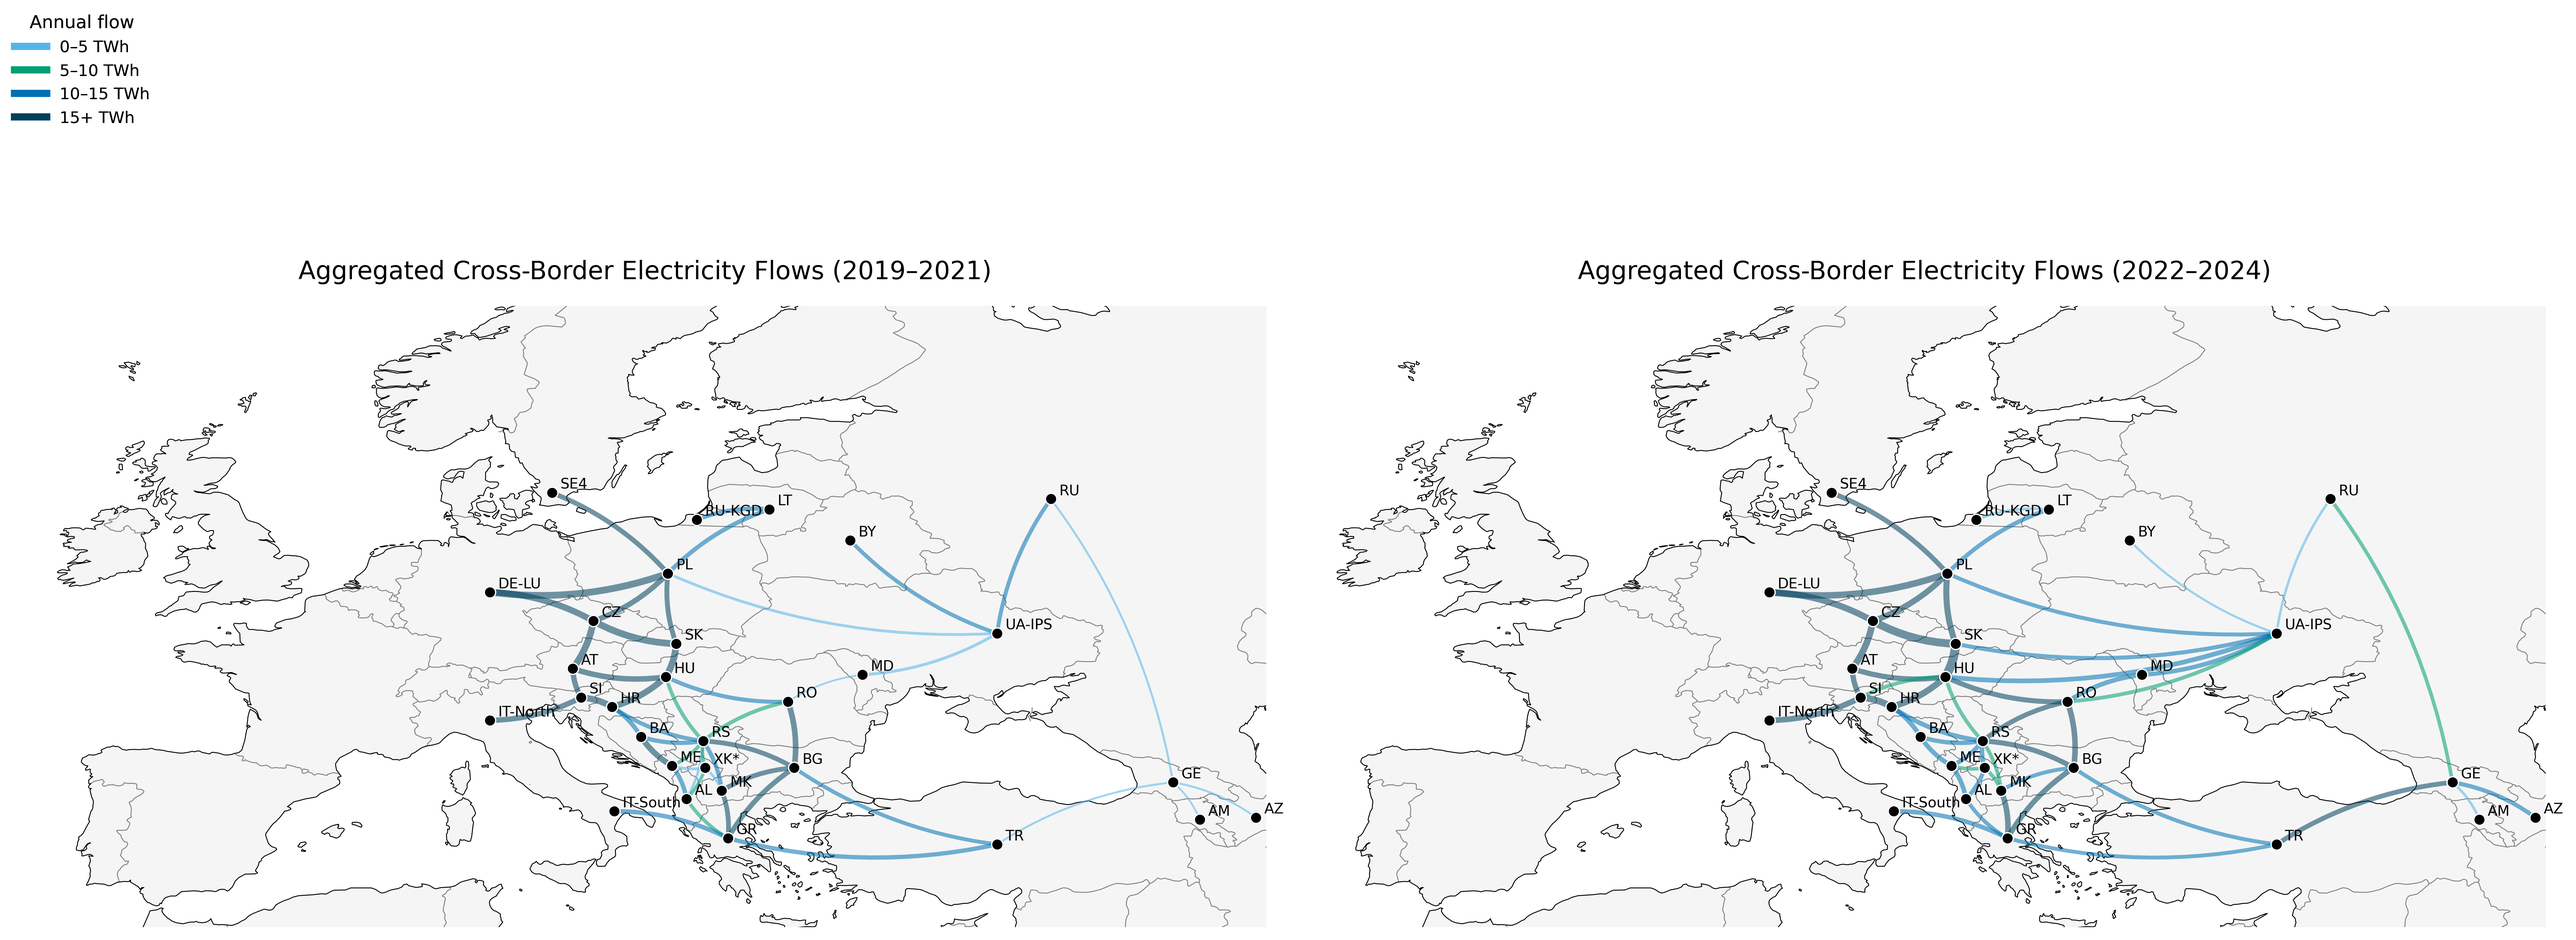
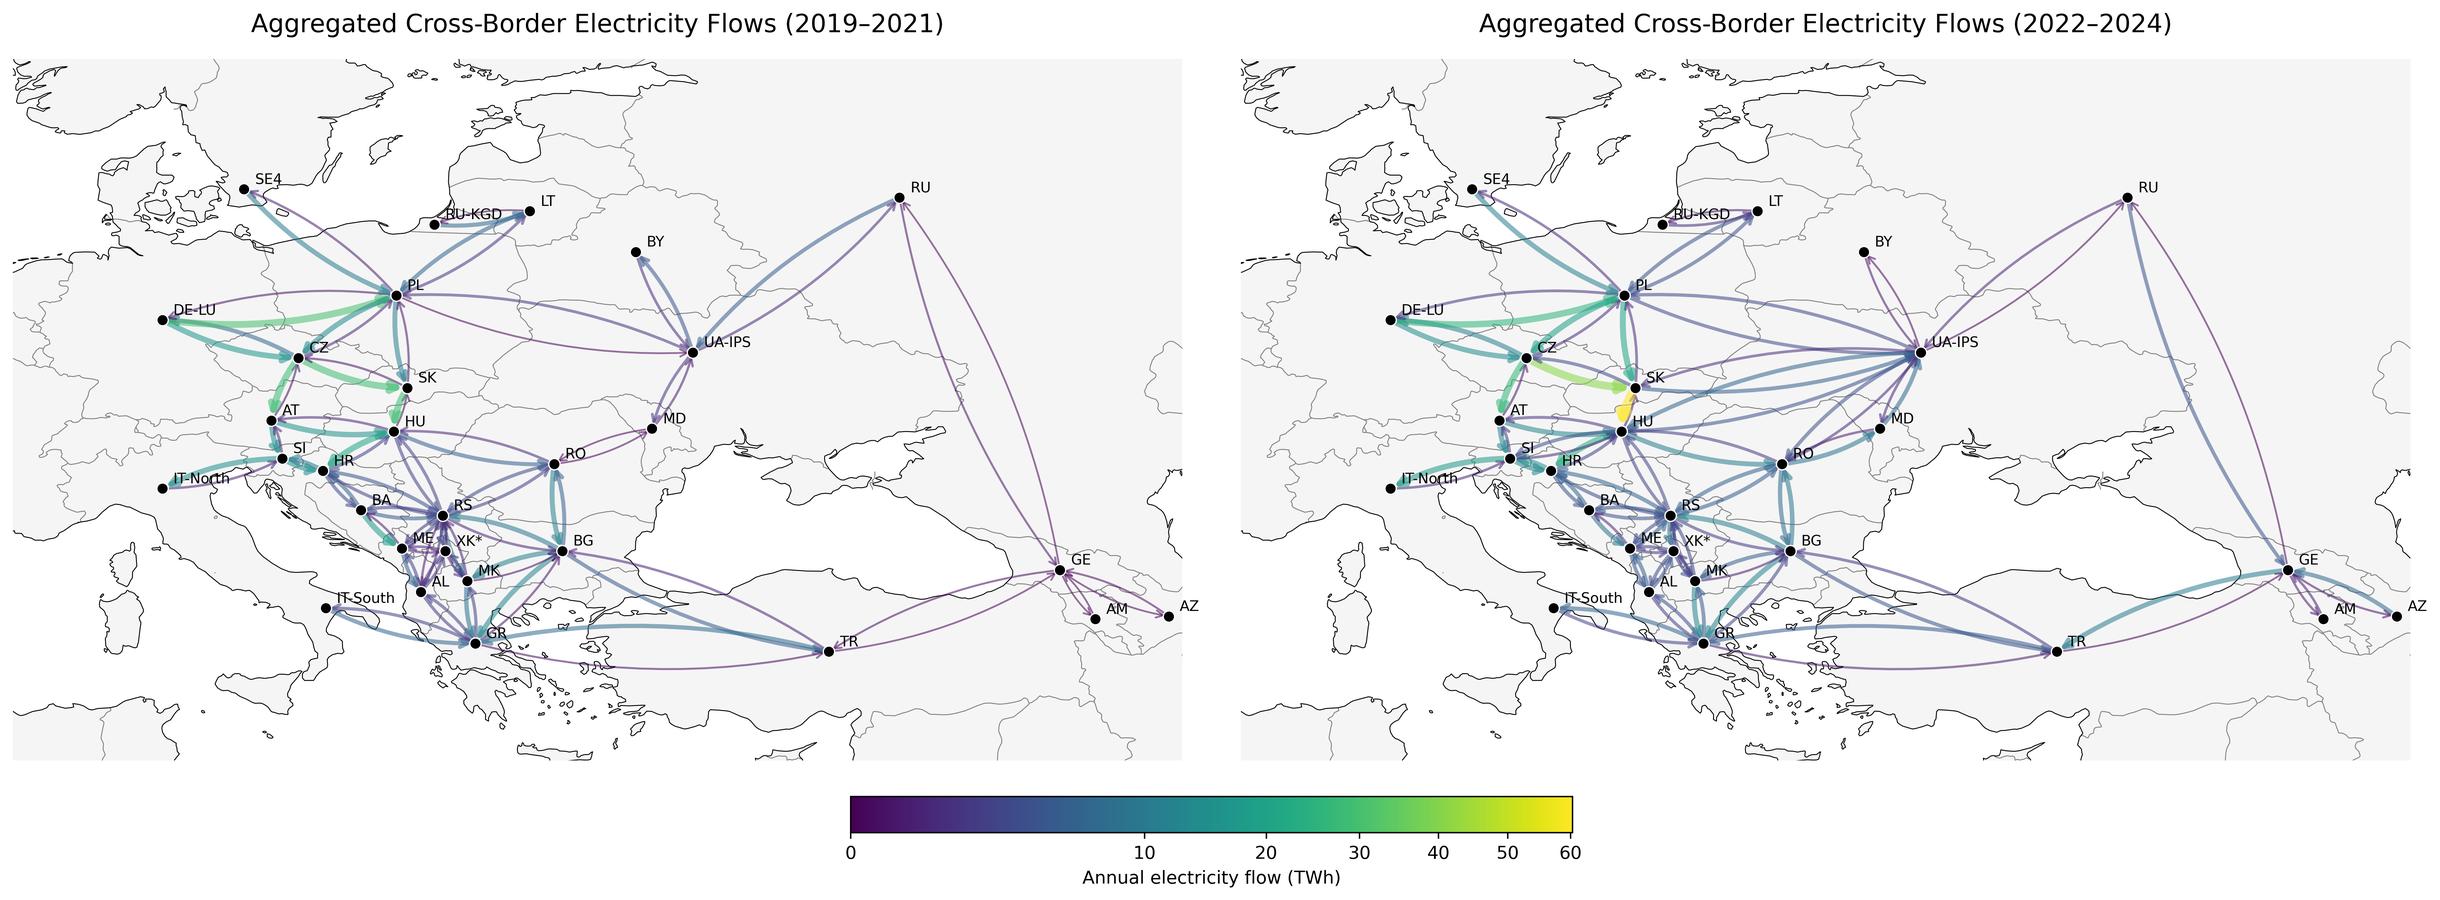
change main_figure.py

diff --git a/src_code/main_figure.py b/src_code/main_figure.py
@@ -1,5 +1,4 @@
 import numpy as np
-import pandas as pd
 import matplotlib.pyplot as plt
 
 import os
@@ -7,22 +6,19 @@ import os
 import cartopy.crs as ccrs
 import cartopy.feature as cfeature
 
-from matplotlib.lines import Line2D
 from matplotlib.patches import FancyArrowPatch
 
+import matplotlib.cm as cm
+import matplotlib.colors as mcolors
+
 from result_path import OUTPUT_PATH
-
-
-# =========================================================
-# CONFIG
-# =========================================================
 
 MIN_FLOW = 5
 TOP_N = 35
 FIGSIZE = (20, 10)
 
-MAP_XLIM = (-12, 48)
-MAP_YLIM = (35, 62)
+MAP_XLIM = (5, 48)
+MAP_YLIM = (35, 59)
 
 EDGE_ALPHA = 0.55
 EDGE_RAD = 0.12
@@ -32,10 +28,6 @@ NODE_FONT = 8
 
 BASEMAP_COLOR = "#f5f5f5"
 BASEMAP_EDGE = "gray"
-
-# =========================================================
-# NODE COORDINATES
-# =========================================================
 
 COORDS = {
     "DE-LU": (10.5, 51.2),
@@ -58,7 +50,7 @@ COORDS = {
     "IT-South": (16.5, 40.6),
     #"IT-CSouth": (14.3, 42.0),
     #"UA": (25.0, 49.0),
-    "UA-IPS": (35.0, 49.2),
+    "UA-IPS": (30.0, 50.0),
     "LT": (24.0, 55.2),
     "SE4": (13.5, 56.0),
     "TR": (35.0, 39.0),
@@ -72,11 +64,6 @@ COORDS = {
     "BY": (27.9, 53.7)
 }
 
-
-# =========================================================
-# DATA PIPELINE
-# =========================================================
-
 def aggregate_period(df, start_year, end_year):
     period = df[(df["year"] >= start_year) & (df["year"] <= end_year)]
 
@@ -88,11 +75,6 @@ def aggregate_period(df, start_year, end_year):
 
 
 def make_undirected(df):
-    """
-    Merge bidirectional flows into a single undirected edge.
-    Ensures (A,B) == (B,A).
-    """
-
     df = df.copy()
 
     # canonical ordering
@@ -115,22 +97,12 @@ def filter_network(df, min_flow=MIN_FLOW, top_n=TOP_N):
     df = df[df["flow_twh"] >= min_flow]
     return df.nlargest(top_n, "flow_twh")
 
-
-# =========================================================
-# MAP SETUP (CARTOPY)
-# =========================================================
-
 def setup_axis(ax):
     ax.add_feature(cfeature.LAND, facecolor=BASEMAP_COLOR)
     ax.add_feature(cfeature.BORDERS, linewidth=0.5, edgecolor=BASEMAP_EDGE)
     ax.add_feature(cfeature.COASTLINE, linewidth=0.5)
 
     ax.set_extent([MAP_XLIM[0], MAP_XLIM[1], MAP_YLIM[0], MAP_YLIM[1]])
-
-
-# =========================================================
-# EDGE DRAWING
-# =========================================================
 
 FLOW_COLOR_BINS = [0, 2, 5, 10, np.inf]
 FLOW_COLORS = [
@@ -141,19 +113,12 @@ FLOW_COLORS = [
 ]
 
 def get_flow_color(flow):
-    """
-    Assign discrete color based on flow magnitude.
-    """
     for i in range(len(FLOW_COLOR_BINS) - 1):
         if FLOW_COLOR_BINS[i] <= flow < FLOW_COLOR_BINS[i + 1]:
             return FLOW_COLORS[i]
     return FLOW_COLORS[-1]
 
-def draw_edges(ax, df, max_flow):
-    """
-    Draw curved network edges with discrete color bins.
-    """
-
+def draw_edges(ax, df, max_flow, cmap, norm):
     for _, row in df.iterrows():
 
         src = row["source"]
@@ -167,11 +132,9 @@ def draw_edges(ax, df, max_flow):
 
         flow = row["flow_twh"]
 
-        # thickness (continuous)
         linewidth = 1 + 4 * np.sqrt(flow / max_flow)
 
-        # color (discrete bins)
-        color = get_flow_color(flow)
+        color = cmap(norm(flow))
 
         edge = FancyArrowPatch(
             (lon1, lat1),
@@ -179,17 +142,13 @@ def draw_edges(ax, df, max_flow):
             connectionstyle=f"arc3,rad={EDGE_RAD}",
             linewidth=linewidth,
             alpha=EDGE_ALPHA,
-            arrowstyle="-",
+            arrowstyle="->",
+            mutation_scale=10,
             color=color,
             zorder=2
         )
 
         ax.add_patch(edge)
-
-
-# =========================================================
-# NODE DRAWING
-# =========================================================
 
 def draw_nodes(ax):
 
@@ -215,125 +174,61 @@ def draw_nodes(ax):
             zorder=6
         )
 
-
-# =========================================================
-# PANEL
-# =========================================================
-
-def draw_network_panel(ax, network_df, max_flow, title):
+def draw_network_panel(ax, network_df, max_flow, cmap, norm, title):
 
     setup_axis(ax)
 
-    draw_edges(ax, network_df, max_flow)
+    draw_edges(ax, network_df, max_flow, cmap, norm)
     draw_nodes(ax)
 
     ax.set_title(title, fontsize=14, pad=15)
     ax.set_axis_off()
 
+def add_shared_legend(fig, cmap, norm):
+    sm = plt.cm.ScalarMappable(cmap=cmap, norm=norm)
+    sm.set_array([])
 
-# =========================================================
-# LEGEND
-# =========================================================
-
-def add_shared_legend(ax):
-    """
-    Legend for discrete flow color bins.
-    """
-
-    handles = [
-        Line2D([0], [0], color=FLOW_COLORS[0], lw=4, label="0–5 TWh"),
-        Line2D([0], [0], color=FLOW_COLORS[1], lw=4, label="5–10 TWh"),
-        Line2D([0], [0], color=FLOW_COLORS[2], lw=4, label="10–15 TWh"),
-        Line2D([0], [0], color=FLOW_COLORS[3], lw=4, label="15+ TWh"),
-    ]
-
-    legend = ax.legend(
-        handles=handles,
-        title="Annual flow",
-        loc="upper left",
-        frameon=False,
-        fontsize=9,
-        title_fontsize=10
+    cbar = fig.colorbar(
+        sm,
+        ax=fig.axes,
+        orientation="horizontal",
+        fraction=0.04,
+        pad=0.04
     )
 
-    ax.add_artist(legend)
-
-def add_flow_width_legend(ax, max_flow):
-    """
-    Legend for edge width scaling.
-    """
-
-    example_flows = [5, 10, 20]
-
-    handles = []
-
-    for f in example_flows:
-        lw = 0.5 + 6 * np.sqrt(f / max_flow)
-
-        handles.append(
-            Line2D(
-                [0], [0],
-                color="black",
-                lw=lw,
-                label=f"{f} TWh (width)"
-            )
-        )
-
-    ax.legend(
-        handles=handles,
-        loc="lower left",
-        frameon=False,
-        fontsize=8,
-        title="Line width",
-        title_fontsize=9
-    )
-
-
-# =========================================================
-# MAIN FIGURE
-# =========================================================
+    cbar.set_label("Annual electricity flow (TWh)")
 
 def create_two_panel_network_figure(
     df,
     output_path=os.path.join(OUTPUT_PATH, "main_fig.png")
 ):
-
-    # -------------------------
-    # aggregate periods
-    # -------------------------
     pre = aggregate_period(df, 2019, 2021)
     post = aggregate_period(df, 2022, 2024)
 
-    # -------------------------
-    # undirected network
-    # -------------------------
-    pre = make_undirected(pre)
-    post = make_undirected(post)
-
-    # -------------------------
-    # filtering
-    # -------------------------
-    #pre = filter_network(pre)
-    #post = filter_network(post)
-
-    # -------------------------
-    # shared scaling
-    # -------------------------
     max_flow = max(pre["flow_twh"].max(), post["flow_twh"].max())
 
-    # -------------------------
-    # figure
-    # -------------------------
+    cmap = cm.viridis  # or plasma, inferno, cividis
+    norm = mcolors.PowerNorm(gamma=0.5, vmin=0, vmax=max_flow)
+
     fig, axes = plt.subplots(
         1, 2,
-        figsize=FIGSIZE,
+        figsize=(24, 10),  # wider figure for horizontal layout
         subplot_kw={"projection": ccrs.PlateCarree()}
+    )
+
+    fig.subplots_adjust(
+        hspace=0.05,
+        wspace=0.05, # almost touching
+        top=0.8,
+        bottom=0.10 # reserve space for legend
     )
 
     draw_network_panel(
         axes[0],
         pre,
         max_flow,
+        cmap,
+        norm,
         "Aggregated Cross-Border Electricity Flows (2019–2021)"
     )
 
@@ -341,13 +236,12 @@ def create_two_panel_network_figure(
         axes[1],
         post,
         max_flow,
+        cmap,
+        norm,
         "Aggregated Cross-Border Electricity Flows (2022–2024)"
     )
 
-    add_shared_legend(fig)
-    #add_flow_width_legend(fig, max_flow)
-
-    plt.tight_layout(rect=[0, 0.05, 1, 1])
+    add_shared_legend(fig, cmap, norm)
 
     plt.savefig(output_path, dpi=400, bbox_inches="tight")
     plt.show()

diff --git a/src_code/data_extraction.py b/src_code/data_extraction.py
@@ -1,7 +1,4 @@
 import pandas as pd
-import networkx as nx
-import matplotlib.pyplot as plt
-import geopandas as gpd
 import os
 
 country_codes = [
